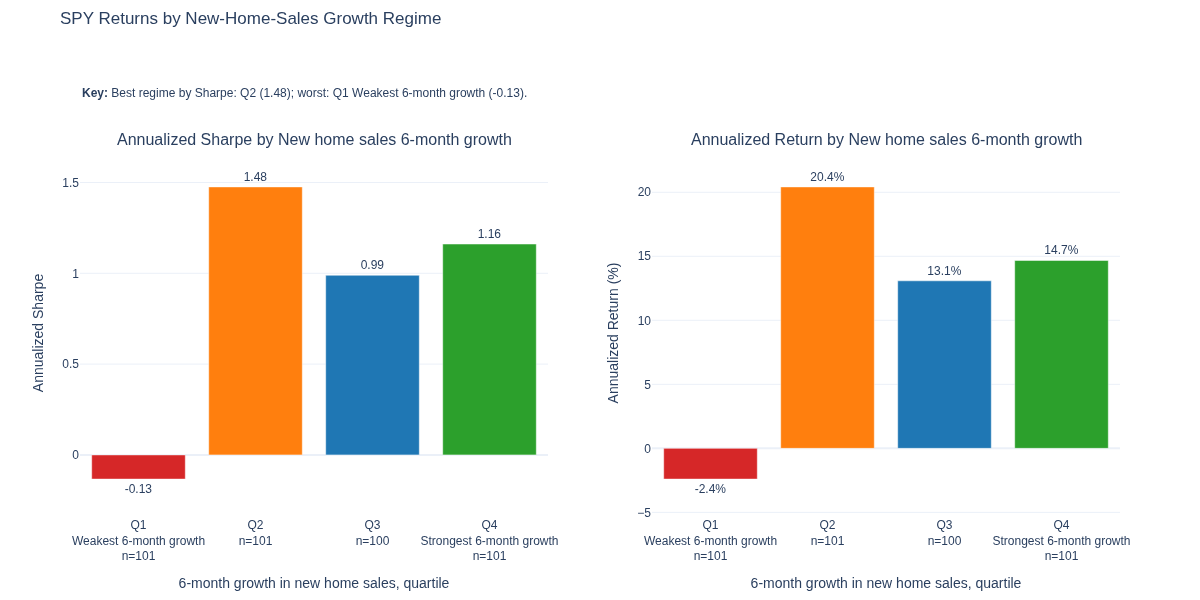
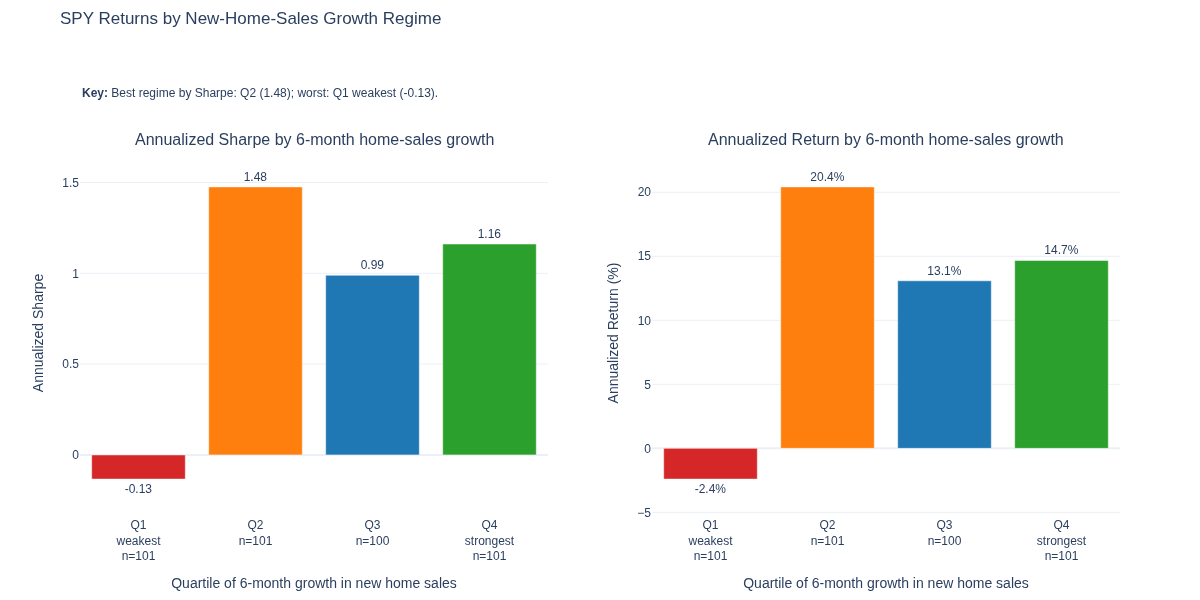
nhs_saar_rebuilt_spy: screenshot pass fixes (quartile chart labels no longer collide; revised-track undefined-tail sentence states dates only)
Claude-Session: https://claude.ai/code/session_013QJi3cY4HgnCo3223v9q3m

diff --git a/scripts/generate_charts_nhs_saar_rebuilt_spy.py b/scripts/generate_charts_nhs_saar_rebuilt_spy.py
@@ -118,10 +118,10 @@ def chart_hero() -> None:
 
 def chart_regime_stats() -> None:
     q = pd.read_csv(RES / "regime_quartile_returns.csv")
-    labels = ["Q1<br>Weakest 6-month growth", "Q2", "Q3", "Q4<br>Strongest 6-month growth"]
+    labels = ["Q1<br>weakest", "Q2", "Q3", "Q4<br>strongest"]
     fig = make_dual_panel_regime_chart(
         labels, q["sharpe"].astype(float).tolist(), (q["mean_return"].astype(float) * 12 * 100).tolist(),
-        signal_label="New home sales 6-month growth", x_axis_title="6-month growth in new home sales, quartile",
+        signal_label="6-month home-sales growth", x_axis_title="Quartile of 6-month growth in new home sales",
         axis_noun="", sample_sizes=q["n"].astype(int).tolist())
     fig.update_layout(title=dict(text="SPY Returns by New-Home-Sales Growth Regime", y=0.98), margin=dict(t=150))
     save("regime_stats", fig, "SPY performance in the same month across quartiles of 6-month growth in new home "

diff --git a/app/pair_configs/nhs_saar_rebuilt_spy_config.py b/app/pair_configs/nhs_saar_rebuilt_spy_config.py
@@ -106,8 +106,8 @@ _IF_THEN = (
     "- **ELSE** -> hold cash."
 )
 _COMP_TAIL = (
-    f" On the revised track the last {W.comparison_tail_n_periods} test month ({W.comparison_tail_first_date}) has no "
-    "defined position because the revised series ends before it, so it is held in cash under the undefined-means-cash "
+    f" On the revised track the test period ends with {W.comparison_tail_n_periods} month(s) without a defined position "
+    f"({W.comparison_tail_first_date} to {W.comparison_tail_last_date}), held in cash under the undefined-means-cash "
     f"rule; holding the last position instead would give a test-period Sharpe of {W.comparison_tail_hold_last_sharpe}."
     if W.has("comparison_tail_n_periods") else "")
 
